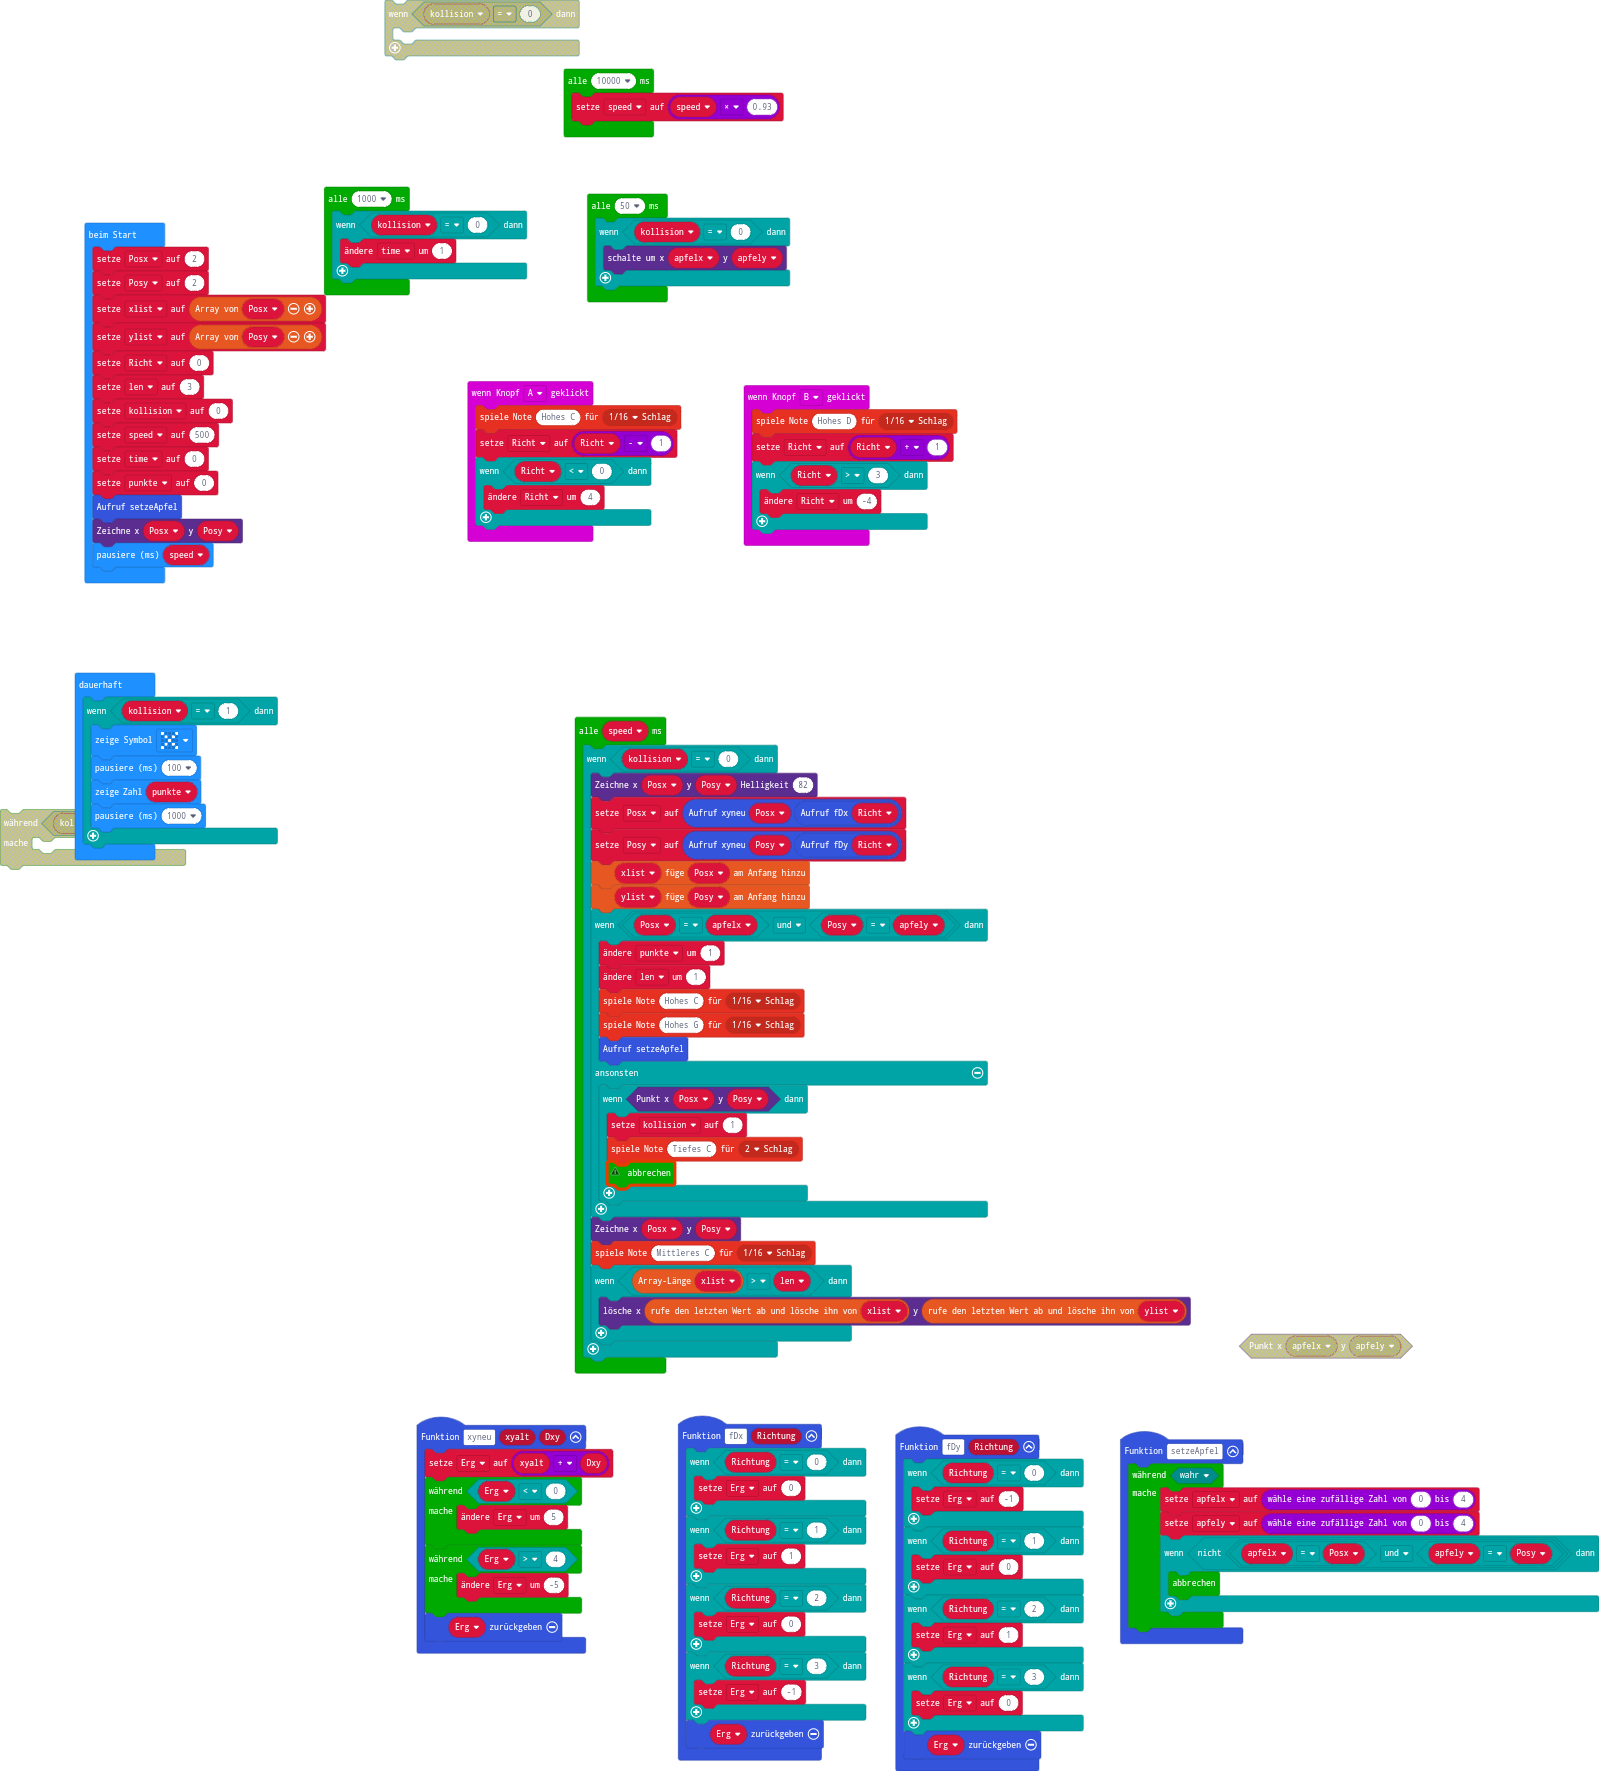
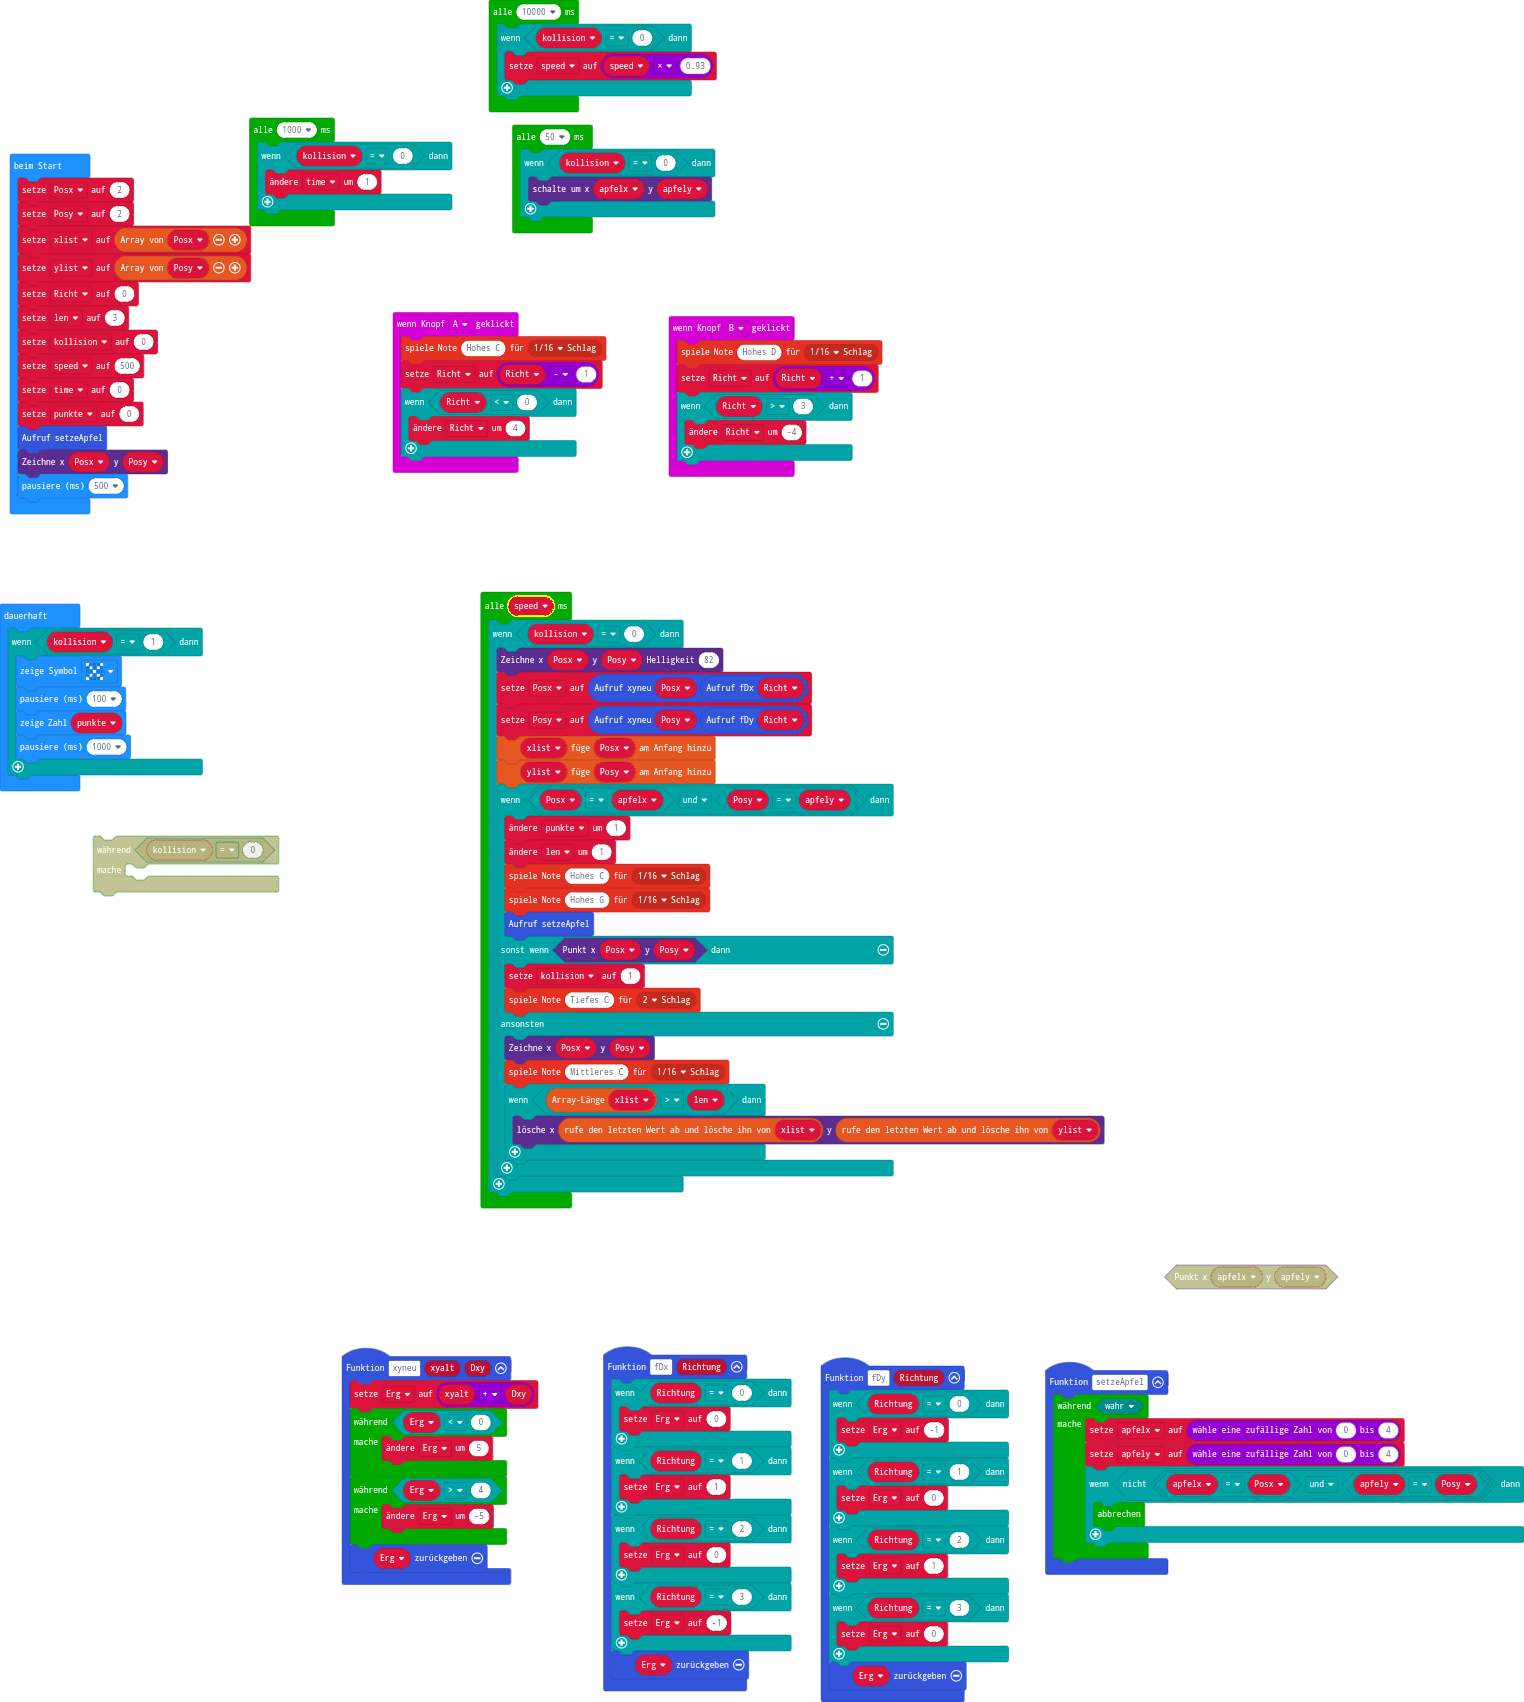
Aktualisiere main.blocks, main.ts

Changed region(s): [[0.2159, 0.3425, 1.0, 1.0], [0.0, 0.0, 0.6168, 0.5294], [0.771, 0.7162, 0.8944, 0.7785]]

diff --git a/main.ts b/main.ts
@@ -79,14 +79,16 @@ let time = 0
 let punkte = 0
 setzeApfel()
 led.plot(Posx, Posy)
-basic.pause(speed)
+basic.pause(500)
 loops.everyInterval(1000, function () {
     if (kollision == 0) {
         time += 1
     }
 })
 loops.everyInterval(10000, function () {
-    speed = speed * 0.93
+    if (kollision == 0) {
+        speed = speed * 0.93
+    }
 })
 loops.everyInterval(50, function () {
     if (kollision == 0) {
@@ -114,17 +116,15 @@ loops.everyInterval(speed, function () {
             music.playTone(523, music.beat(BeatFraction.Sixteenth))
             music.playTone(784, music.beat(BeatFraction.Sixteenth))
             setzeApfel()
+        } else if (led.point(Posx, Posy)) {
+            kollision = 1
+            music.playTone(131, music.beat(BeatFraction.Double))
         } else {
-            if (led.point(Posx, Posy)) {
-                kollision = 1
-                music.playTone(131, music.beat(BeatFraction.Double))
-                break;
+            led.plot(Posx, Posy)
+            music.playTone(262, music.beat(BeatFraction.Sixteenth))
+            if (xlist.length > len) {
+                led.unplot(xlist.pop(), ylist.pop())
             }
-        }
-        led.plot(Posx, Posy)
-        music.playTone(262, music.beat(BeatFraction.Sixteenth))
-        if (xlist.length > len) {
-            led.unplot(xlist.pop(), ylist.pop())
         }
     }
 })
